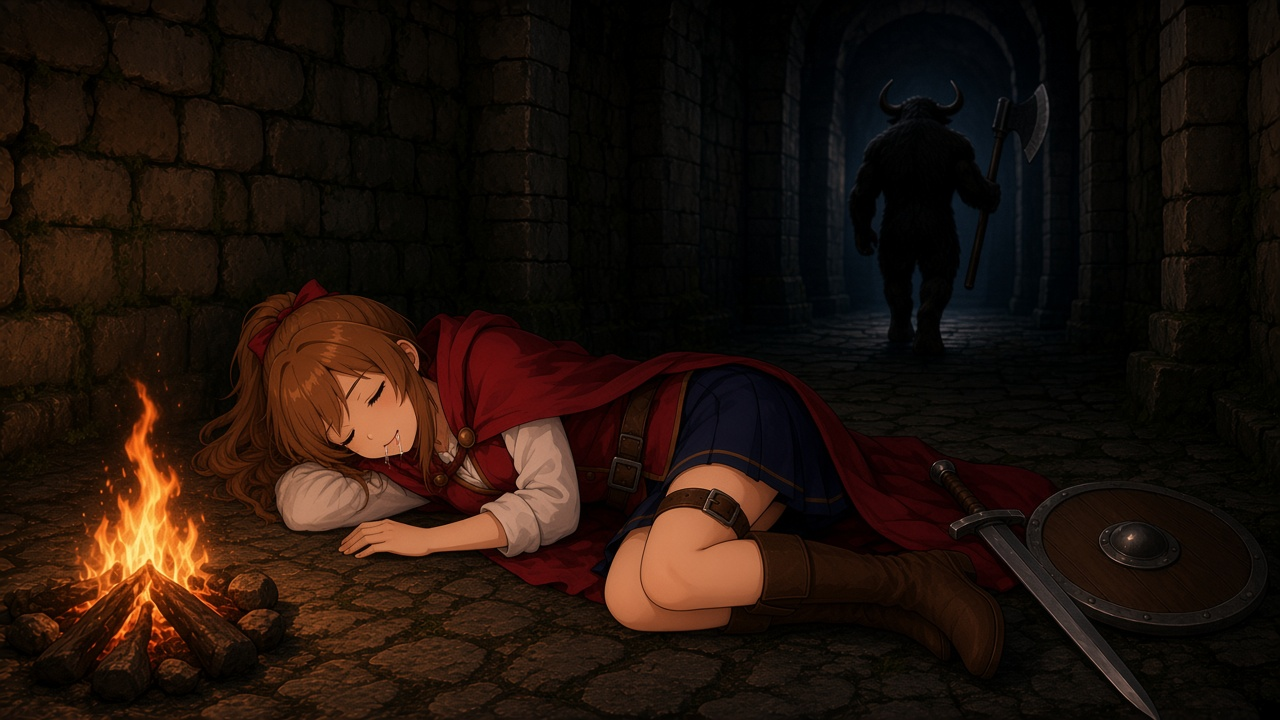
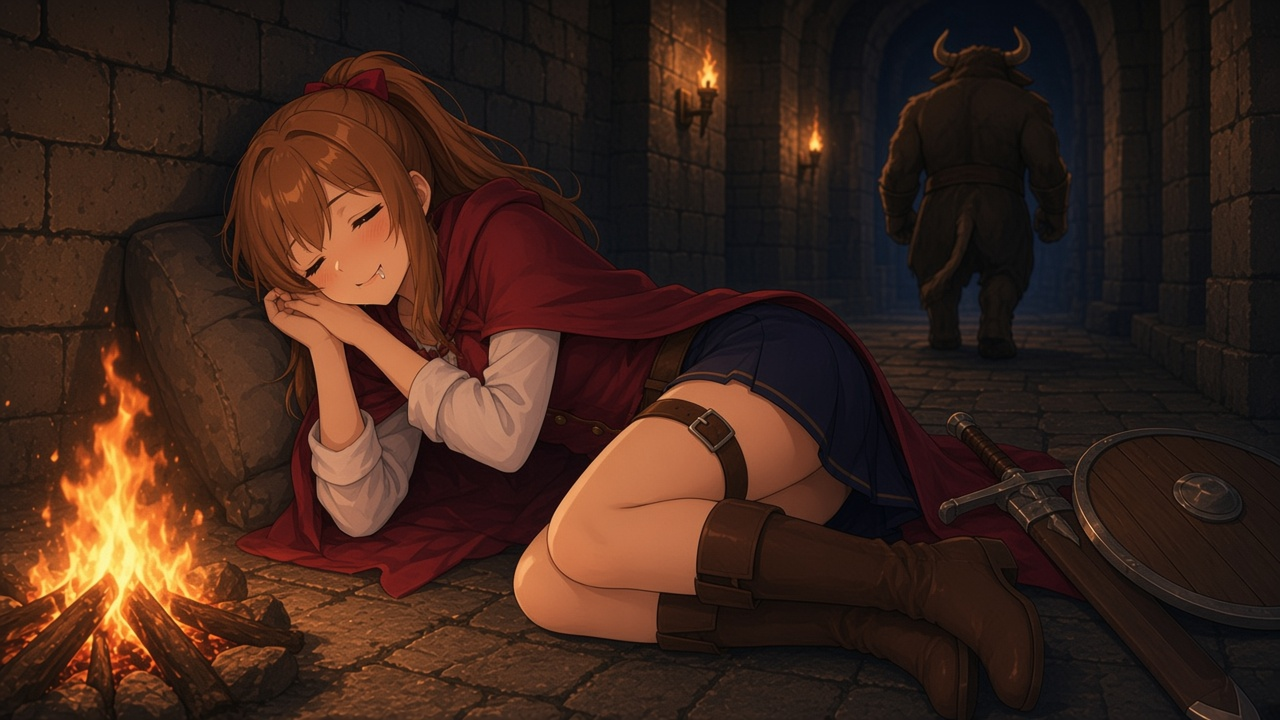
Redraw the rest picture as a cuter curled nap.

diff --git a/index.html b/index.html
@@ -10079,7 +10079,7 @@
               ${sheetFig("event-fight.jpg?v=1", "戦闘", "land-ref", "span-2 path-series")}
               ${sheetFig("event-beggar.jpg?v=1", "物乞い", "land-ref", "span-2")}
               ${sheetFig("shop-merchant.jpg?v=6", "お店", "land-ref", "span-2")}
-              ${sheetFig("event-rest.jpg?v=4", "休憩", "land-ref", "span-2")}
+              ${sheetFig("event-rest.jpg?v=5", "休憩", "land-ref", "span-2")}
               ${sheetFig("event-job.jpg?v=6", "ジョブ", "land-ref", "span-2")}
             </div>
             <h3>ダンジョン</h3>
@@ -10261,7 +10261,7 @@
         "挑戦者に祝福を": [heroItem().bless || "blessing-goddess-f.jpg?v=2", `荘厳な女神が、ひざまずく${heroName()}に祝福を授けている`],
         "お店": ["shop-merchant.jpg?v=6", "ジト目のまま怒って、値段を負けてもらおうとしている戦士"],
         "探索": ["event-search.jpg?v=5", "宝箱の蓋を彼女の側へ開け、光が漏れている戦士"],
-        "キャンプ": ["event-rest.jpg?v=4", "左太ももにベルト。よだれを垂らしてかわいく寝ている。奥のミノタウロスは気づかず通り過ぎる"],
+        "キャンプ": ["event-rest.jpg?v=5", "横向きに丸くなって、頬を赤らめてかわいく寝ている。よだれ。左太ももにベルト。奥のミノタウロスは気づかず通り過ぎる"],
         "物乞いに遭遇": ["event-beggar.jpg?v=1", "物乞いにカードを差し出す戦士"],
         "ジョブ": ["event-job.jpg?v=6", "紋章だけが光り、拳を上げてやる気を出している。顔は今のまま"],
       };
